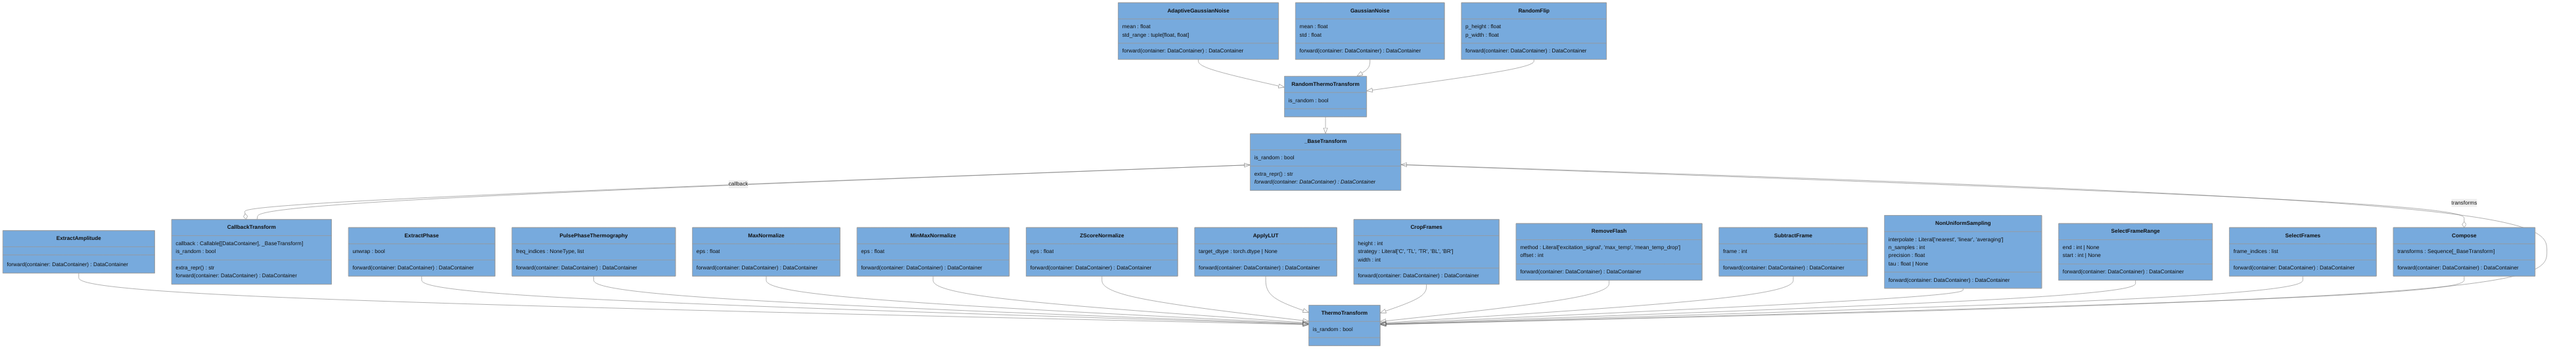
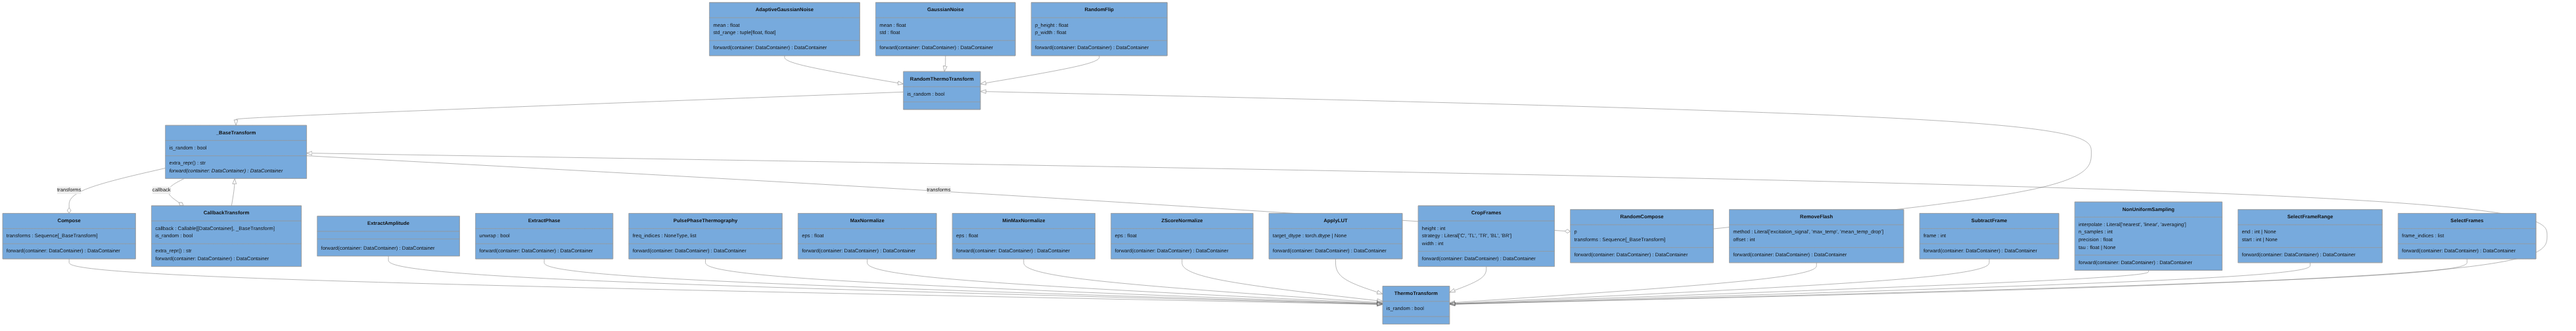
Release 0.3.6 (#433)
* Bump version: 0.3.6dev → 0.3.6

* Update mermaid diagrams

---------

diff --git a/src/pythermondt/__pkginfo__.py b/src/pythermondt/__pkginfo__.py
@@ -1,1 +1,1 @@
-__version__ = "0.3.6dev"
+__version__ = "0.3.6"
